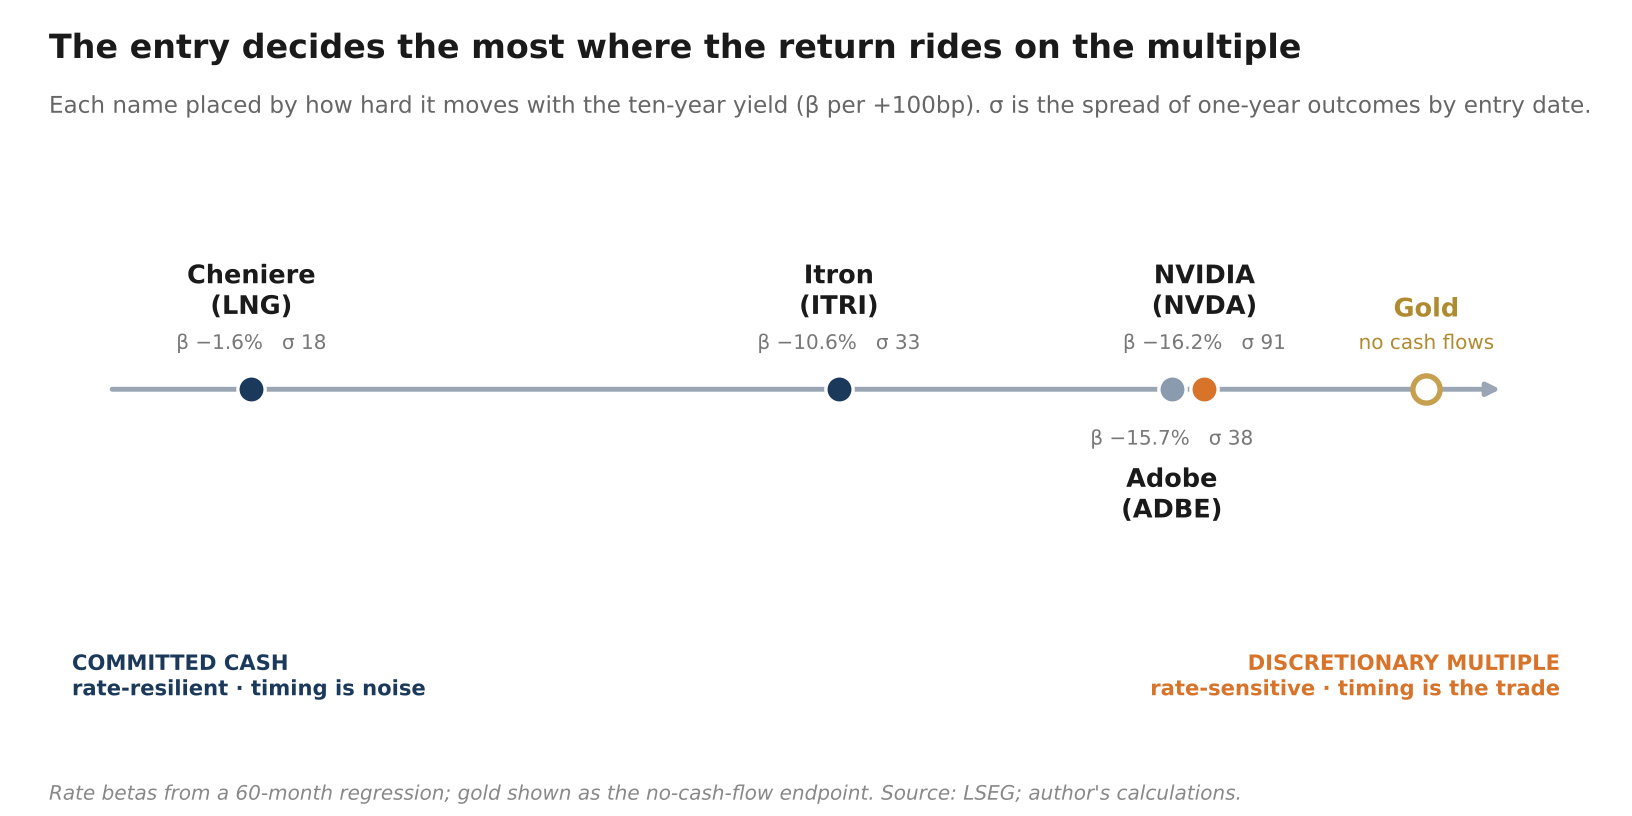
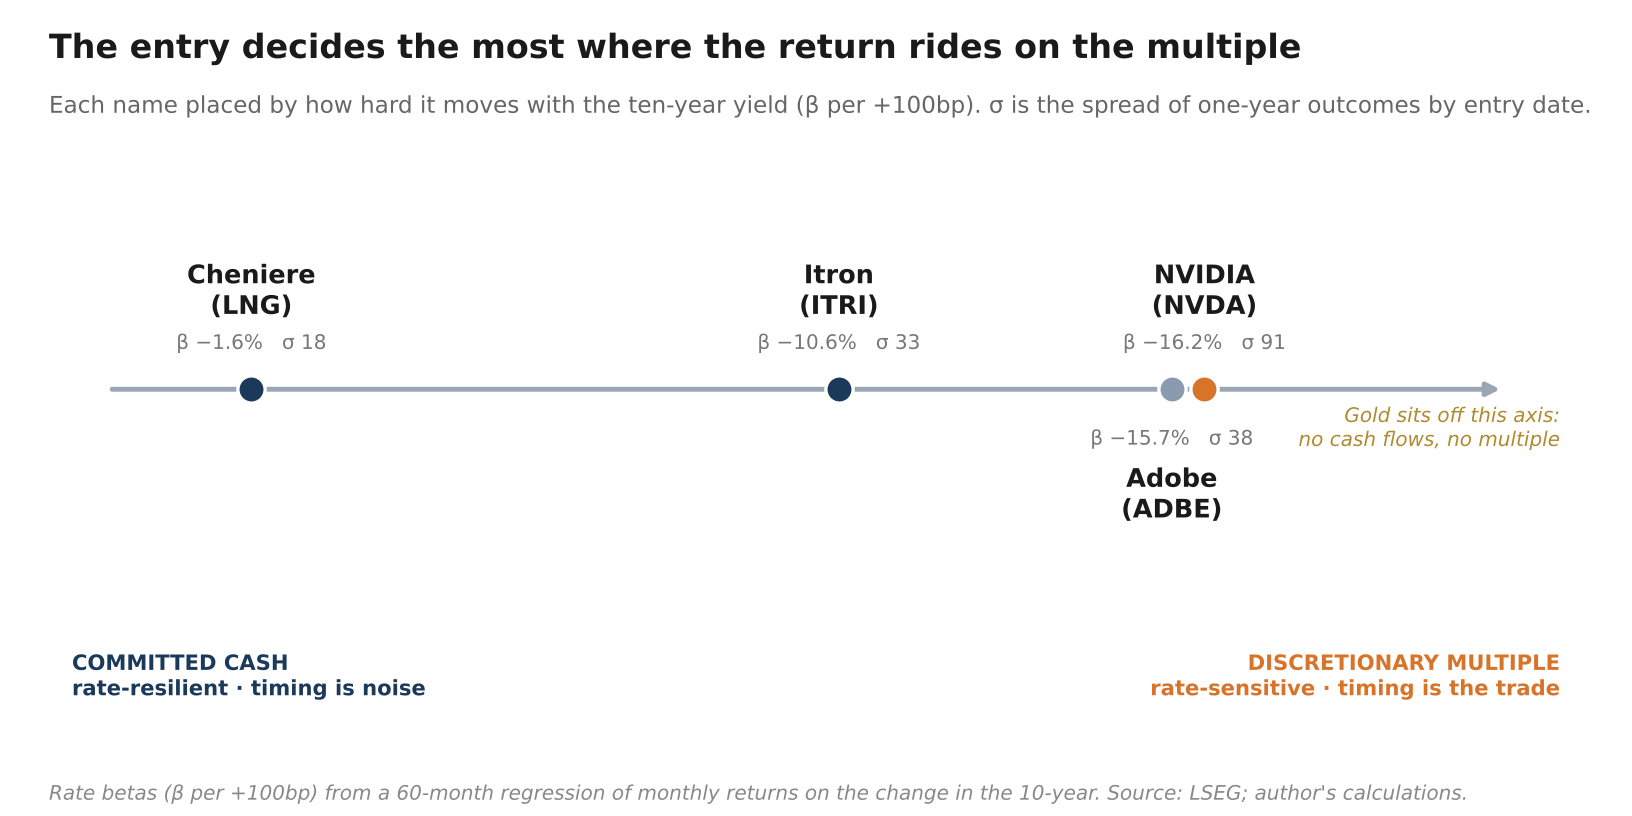
Draft 4.4: correct Cheniere floor for minority interest; fix gold framing
Floor: subtract CQP minority interest, not just net debt (EV-to-equity bridge
~32B = 27B net debt + ~5B NCI), so the contracted floor is ~196/share, not 221.
Gold: reframe as OFF the duration axis, not the rate-sensitive end. The
non-yielding textbook case broke in 2022 when central banks became the marginal
buyer and gold rallied into rising yields; no cash flows and no multiple means
nothing to time. Remove gold from the spectrum chart (noted as off-axis); WPM
is the on-axis gold exposure.

Claude-Session: https://claude.ai/code/session_01PR1GkAXEASRi1F28SPUd1v

Changed region(s): [[0.0938, 0.9498, 0.9062, 0.9804], [0.7812, 0.4596, 0.9688, 0.5515], [0.8438, 0.3676, 0.9062, 0.4289]]

diff --git a/charts/make_duration_charts.py b/charts/make_duration_charts.py
@@ -105,12 +105,9 @@ for name,bx,sd,col,side in pts:
             fontsize=11.5,fontweight="bold",color=INK)
         ax.annotate(f"β −{bx:.1f}%   σ {sd}",(bx,0),xytext=(0,-18),textcoords="offset points",
             ha="center",va="top",fontsize=9,color="#777")
-# gold, conceptual far end
-ax.scatter([19.6],[0],s=150,facecolor="white",edgecolor="#c6a04e",lw=2.4,zorder=5)
-ax.annotate("Gold",(19.6,0),xytext=(0,30),textcoords="offset points",ha="center",va="bottom",
-    fontsize=11.5,fontweight="bold",color="#b08a2e")
-ax.annotate("no cash flows",(19.6,0),xytext=(0,16),textcoords="offset points",ha="center",va="bottom",
-    fontsize=9,color="#b08a2e")
+# gold note: it is off this axis, not at the end of it
+ax.text(0.985,0.60,"Gold sits off this axis:\nno cash flows, no multiple",transform=ax.transAxes,
+    ha="right",va="top",fontsize=9,color="#b08a2e",style="italic")
 # pole labels, pinned to the bottom corners so they clear the markers
 ax.text(0.015,0.03,"COMMITTED CASH\nrate-resilient · timing is noise",transform=ax.transAxes,
     ha="left",va="bottom",fontsize=9.5,color=NAVY,fontweight="bold")
@@ -122,7 +119,7 @@ fig.suptitle("The entry decides the most where the return rides on the multiple"
     fontsize=15,fontweight="bold",color=INK,x=0.03,ha="left",y=0.96)
 fig.text(0.03,0.855,"Each name placed by how hard it moves with the ten-year yield (β per +100bp). σ is the spread of one-year outcomes by entry date.",
     fontsize=10.4,color="#666",va="bottom")
-fig.text(0.03,0.02,"Rate betas from a 60-month regression; gold shown as the no-cash-flow endpoint. Source: LSEG; author's calculations.",
+fig.text(0.03,0.02,"Rate betas (β per +100bp) from a 60-month regression of monthly returns on the change in the 10-year. Source: LSEG; author's calculations.",
     fontsize=9,color="#888",style="italic")
 fig.subplots_adjust(left=0.03,right=0.97,top=0.76,bottom=0.12)
 fig.savefig("charts/duration-spectrum.png",facecolor="white"); print("wrote charts/duration-spectrum.png")

diff --git a/duration-entry-timing-DRAFT.md b/duration-entry-timing-DRAFT.md
@@ -46,7 +46,7 @@ One line of regime, because it raises the stakes. The US ten-year yield was 5.29
 
 ## My positions, in order of how much timing matters
 
-**Cheniere (LNG).** The return is yield plus contracted growth and a small re-rating. Roughly 90% of production is contracted through the mid-2030s on a weighted-average contract life near 15 years, and $6.6B of fixed fees arrive over the next twelve months regardless of commodity prices, part of $107.7B contracted in total (FY2025 10-K). Those fixed fees are close to pure margin, so at the 11 times EV/EBITDA the stock trades on today, net of about $27B of net debt across 207 million shares, the contracted floor works out near $221 against a price of $287. The business is earning well above it, with 2026 EBITDA guidance raised to $7.9 to $8.4 billion. And it returns cash directly: a 0.8% dividend and a buyback that ran $1.1 billion in the first half, carrying the share count from 207 million toward a 175 million target, a cash return near 5% that owes nothing to the multiple. Its five-year beta to the market is 0.01. Timing barely matters here. The floor is the margin of safety and the buy band is wide.
+**Cheniere (LNG).** The return is yield plus contracted growth and a small re-rating. Roughly 90% of production is contracted through the mid-2030s on a weighted-average contract life near 15 years, and $6.6B of fixed fees arrive over the next twelve months regardless of commodity prices, part of $107.7B contracted in total (FY2025 10-K). Those fixed fees are close to pure margin, so at the 11 times EV/EBITDA the stock trades on today they imply about a $73 billion enterprise value. Strip the roughly $32 billion the market puts between enterprise and equity value here, about $27 billion of net debt plus $5 billion of CQP minority interest that Cheniere consolidates but does not own, and the contracted floor lands near $196 a share against a price of $287. The business is earning well above it, with 2026 EBITDA guidance raised to $7.9 to $8.4 billion. And it returns cash directly: a 0.8% dividend and a buyback that ran $1.1 billion in the first half, carrying the share count from 207 million toward a 175 million target, a cash return near 5% that owes nothing to the multiple. Its five-year beta to the market is 0.01. Timing barely matters here. The floor is the margin of safety and the buy band is wide.
 
 **Adobe (ADBE).** Not a cash-flow risk. The revenue is recurring and the enterprise side is genuinely sticky, with switching costs around AEP and workflow lock-in. The duration here is in the narrative. The stock trades at 7.7 times EV/EBITDA, below every large-cap software peer in the set and cheaper even than Oracle at 9.2 times, against a peer median near 15.7 (Oracle, Intuit, Salesforce, Autodesk, Microsoft, SAP, ServiceNow). The re-rate waits on one question resolving: whether the moat is bifurcating, the enterprise half defended while the individual creative half loses ground to open-source and AI-native tools. The new CEO frames that split on December 9, and Q4 net new ARR is the number that settles it. Until then the cheapness is a bet on a story, and you cannot time a story.
 
@@ -54,7 +54,7 @@ One line of regime, because it raises the stakes. The US ten-year yield was 5.29
 
 **Itron (ITRI).** The business is compounding on its own, ARR up 21% and gross margin already past the 2027 target three years early. What makes it the most entry-sensitive name I own is that the biggest piece of the upside is the market changing how it values the company at all: from an earnings multiple on a hardware business, about 12.9 times forward today, to an EV/ARR multiple on the software business it is becoming. That is the distance between $130 on EV/EBITDA and $326 on EV/ARR I laid out before. The growth accrues regardless. The re-rate waits on the Investor Day in early 2027, when the model rebuild gets hard to avoid.
 
-**Gold.** The endpoint, and the cleanest version of the point. Physical gold has no cash flows and no price target by design, so there is nothing to time on fundamentals. You accumulate against a floor that rises with central-bank buying and watch the break conditions. I hold it mostly through Wheaton, with a smaller GLD position as a hedge for the gold-price risk that is independent of the miner. Wheaton is the exception that proves the rule. It does have cash flows, a streaming model and a P/OCF multiple, so it behaves like an equity with entry-timing risk, not like the metal. That one is a separate post.
+**Gold.** Not the far end of this list. Off it entirely. Gold has no cash flows and no multiple, so there is nothing to value on fundamentals and nothing to time. The textbook would call a non-yielding asset the longest duration there is, and before 2022 that held: Western funds traded gold against real yields, and it fell when rates rose. That link broke. The marginal buyer is now central banks, who bought a record pace from 2022 through 2025 while yields climbed, and gold rallied into rising rates rather than falling with them. So I do not try to time it. I accumulate against a floor the structural buyer keeps lifting, and I watch the break conditions. I hold it mostly through Wheaton, which does have cash flows and a multiple and so does sit on the scale above, with a smaller GLD position to hedge the gold-price risk Wheaton carries on top.
 
 ## The Itron day that proves it
 
